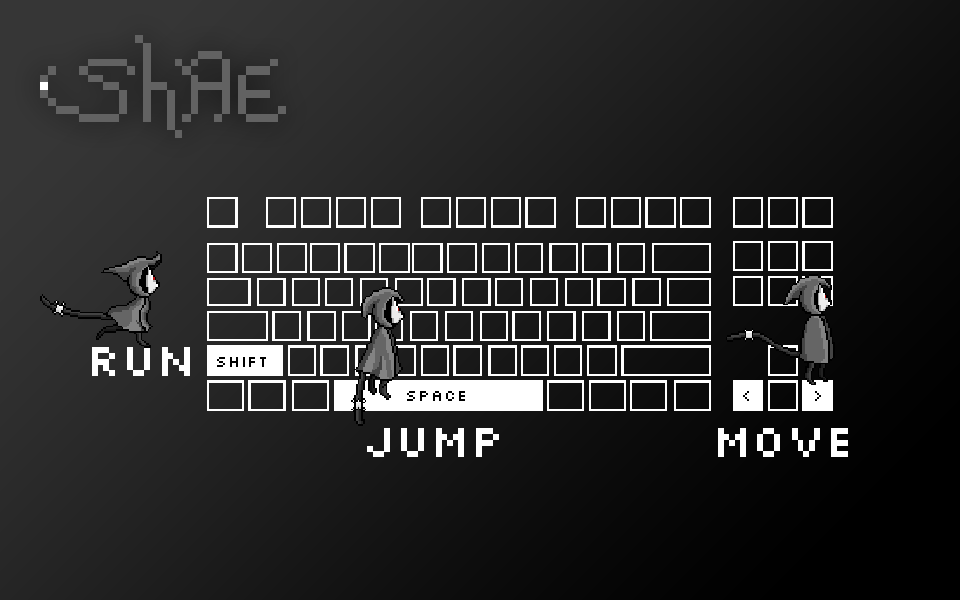
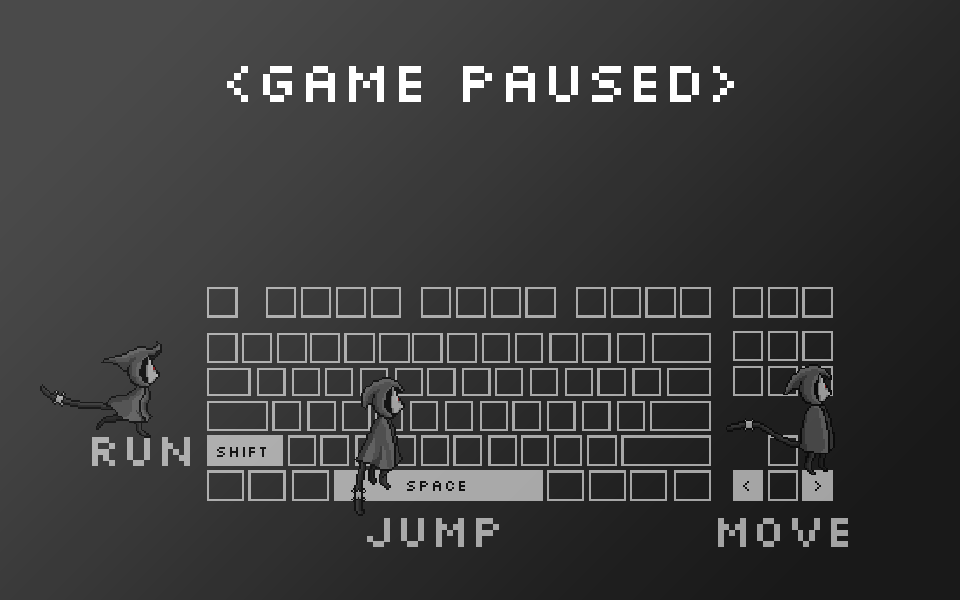
Pause screen background updated.

diff --git a/felipepb/shae/js/game/controllers/PauseController.js b/felipepb/shae/js/game/controllers/PauseController.js
@@ -57,19 +57,13 @@ Game.PauseController.prototype = {
 
 		this.group = this.game.add.group(undefined, 'pause-controller', true);
 		this.group.create(0, 0, 'gamePaused');
-		
-		// <game paused>
-		var gamePausedTitle = new Phaser.BitmapText(this.game, 0, 0, 'silkscreenWhite', '<game paused>', fontSize);
-		gamePausedTitle.x = (cameraWidth - gamePausedTitle.textWidth) / 2.0;
-		gamePausedTitle.y = 60;
-		this.group.add(gamePausedTitle);
-		
+
 		fontSize *= 0.55;
 		var margin = 60;
-		
+
 		// (c)ontinue
 		this.regularContinueText = new Phaser.BitmapText(this.game,
-		                                                 margin, gamePausedTitle.y + gamePausedTitle.textHeight + 50,
+		                                                 margin, 170,
 														 'silkscreenWhite',
 														 '( )ontinue',
 														 fontSize);
